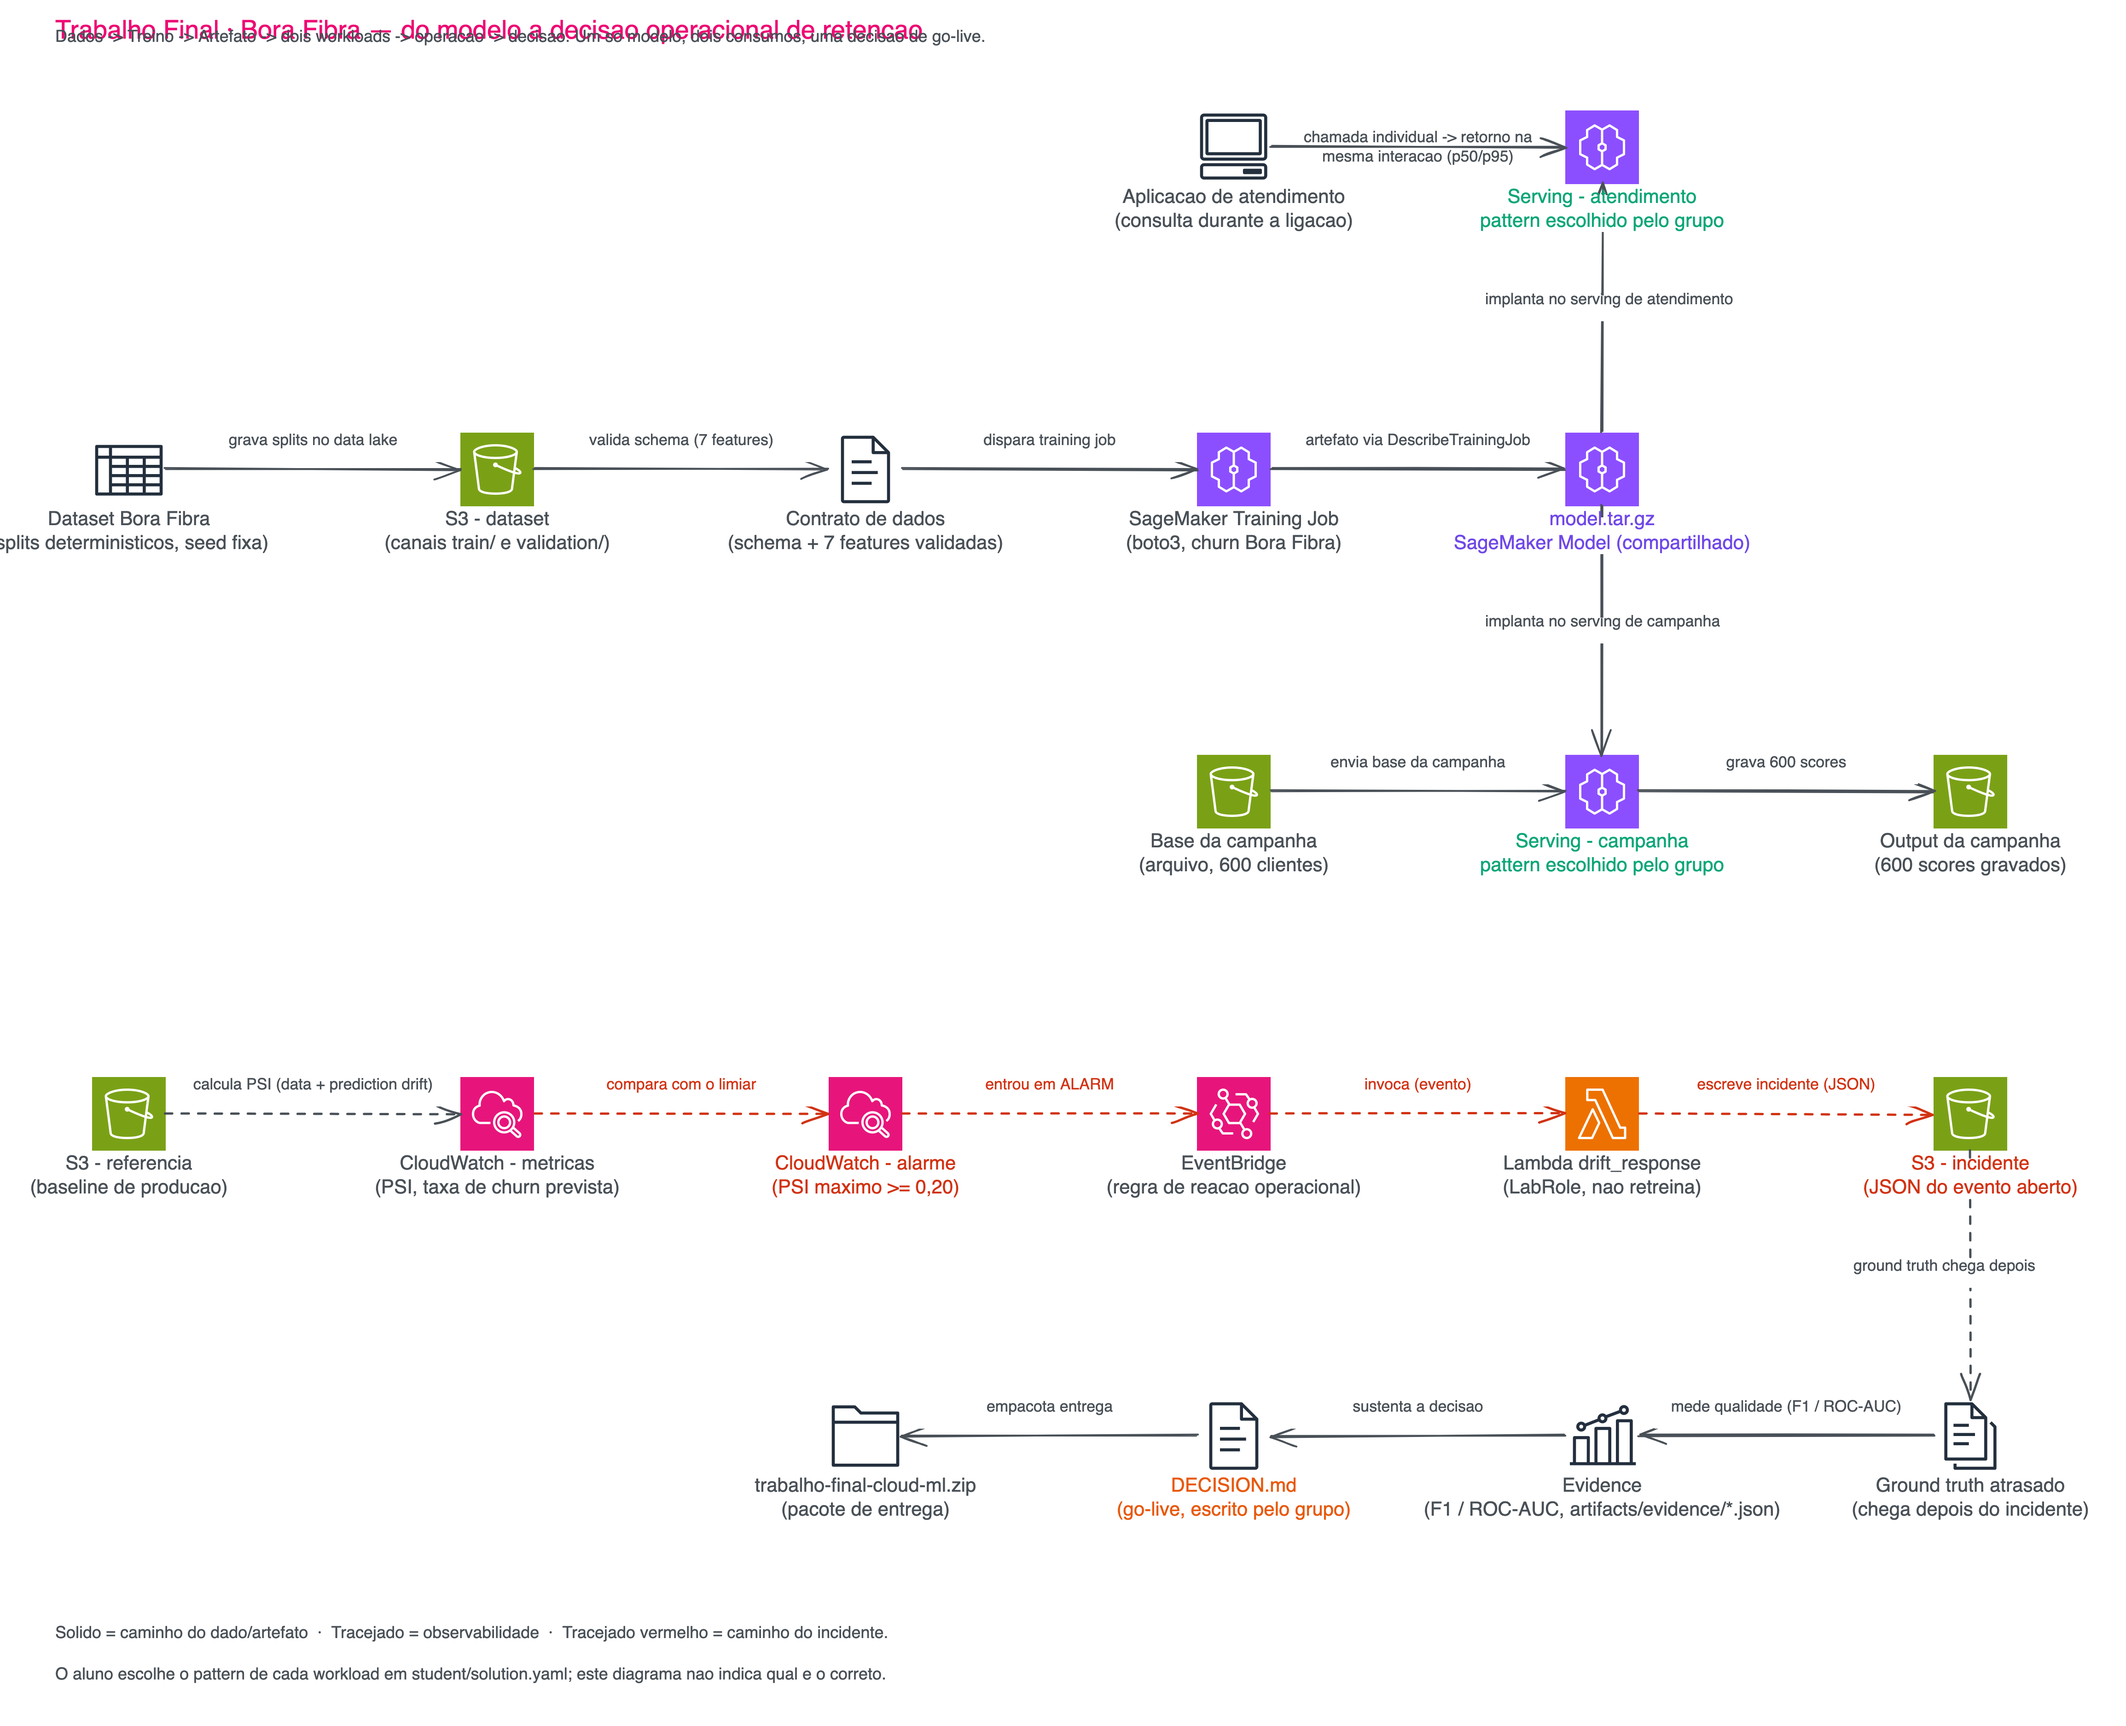
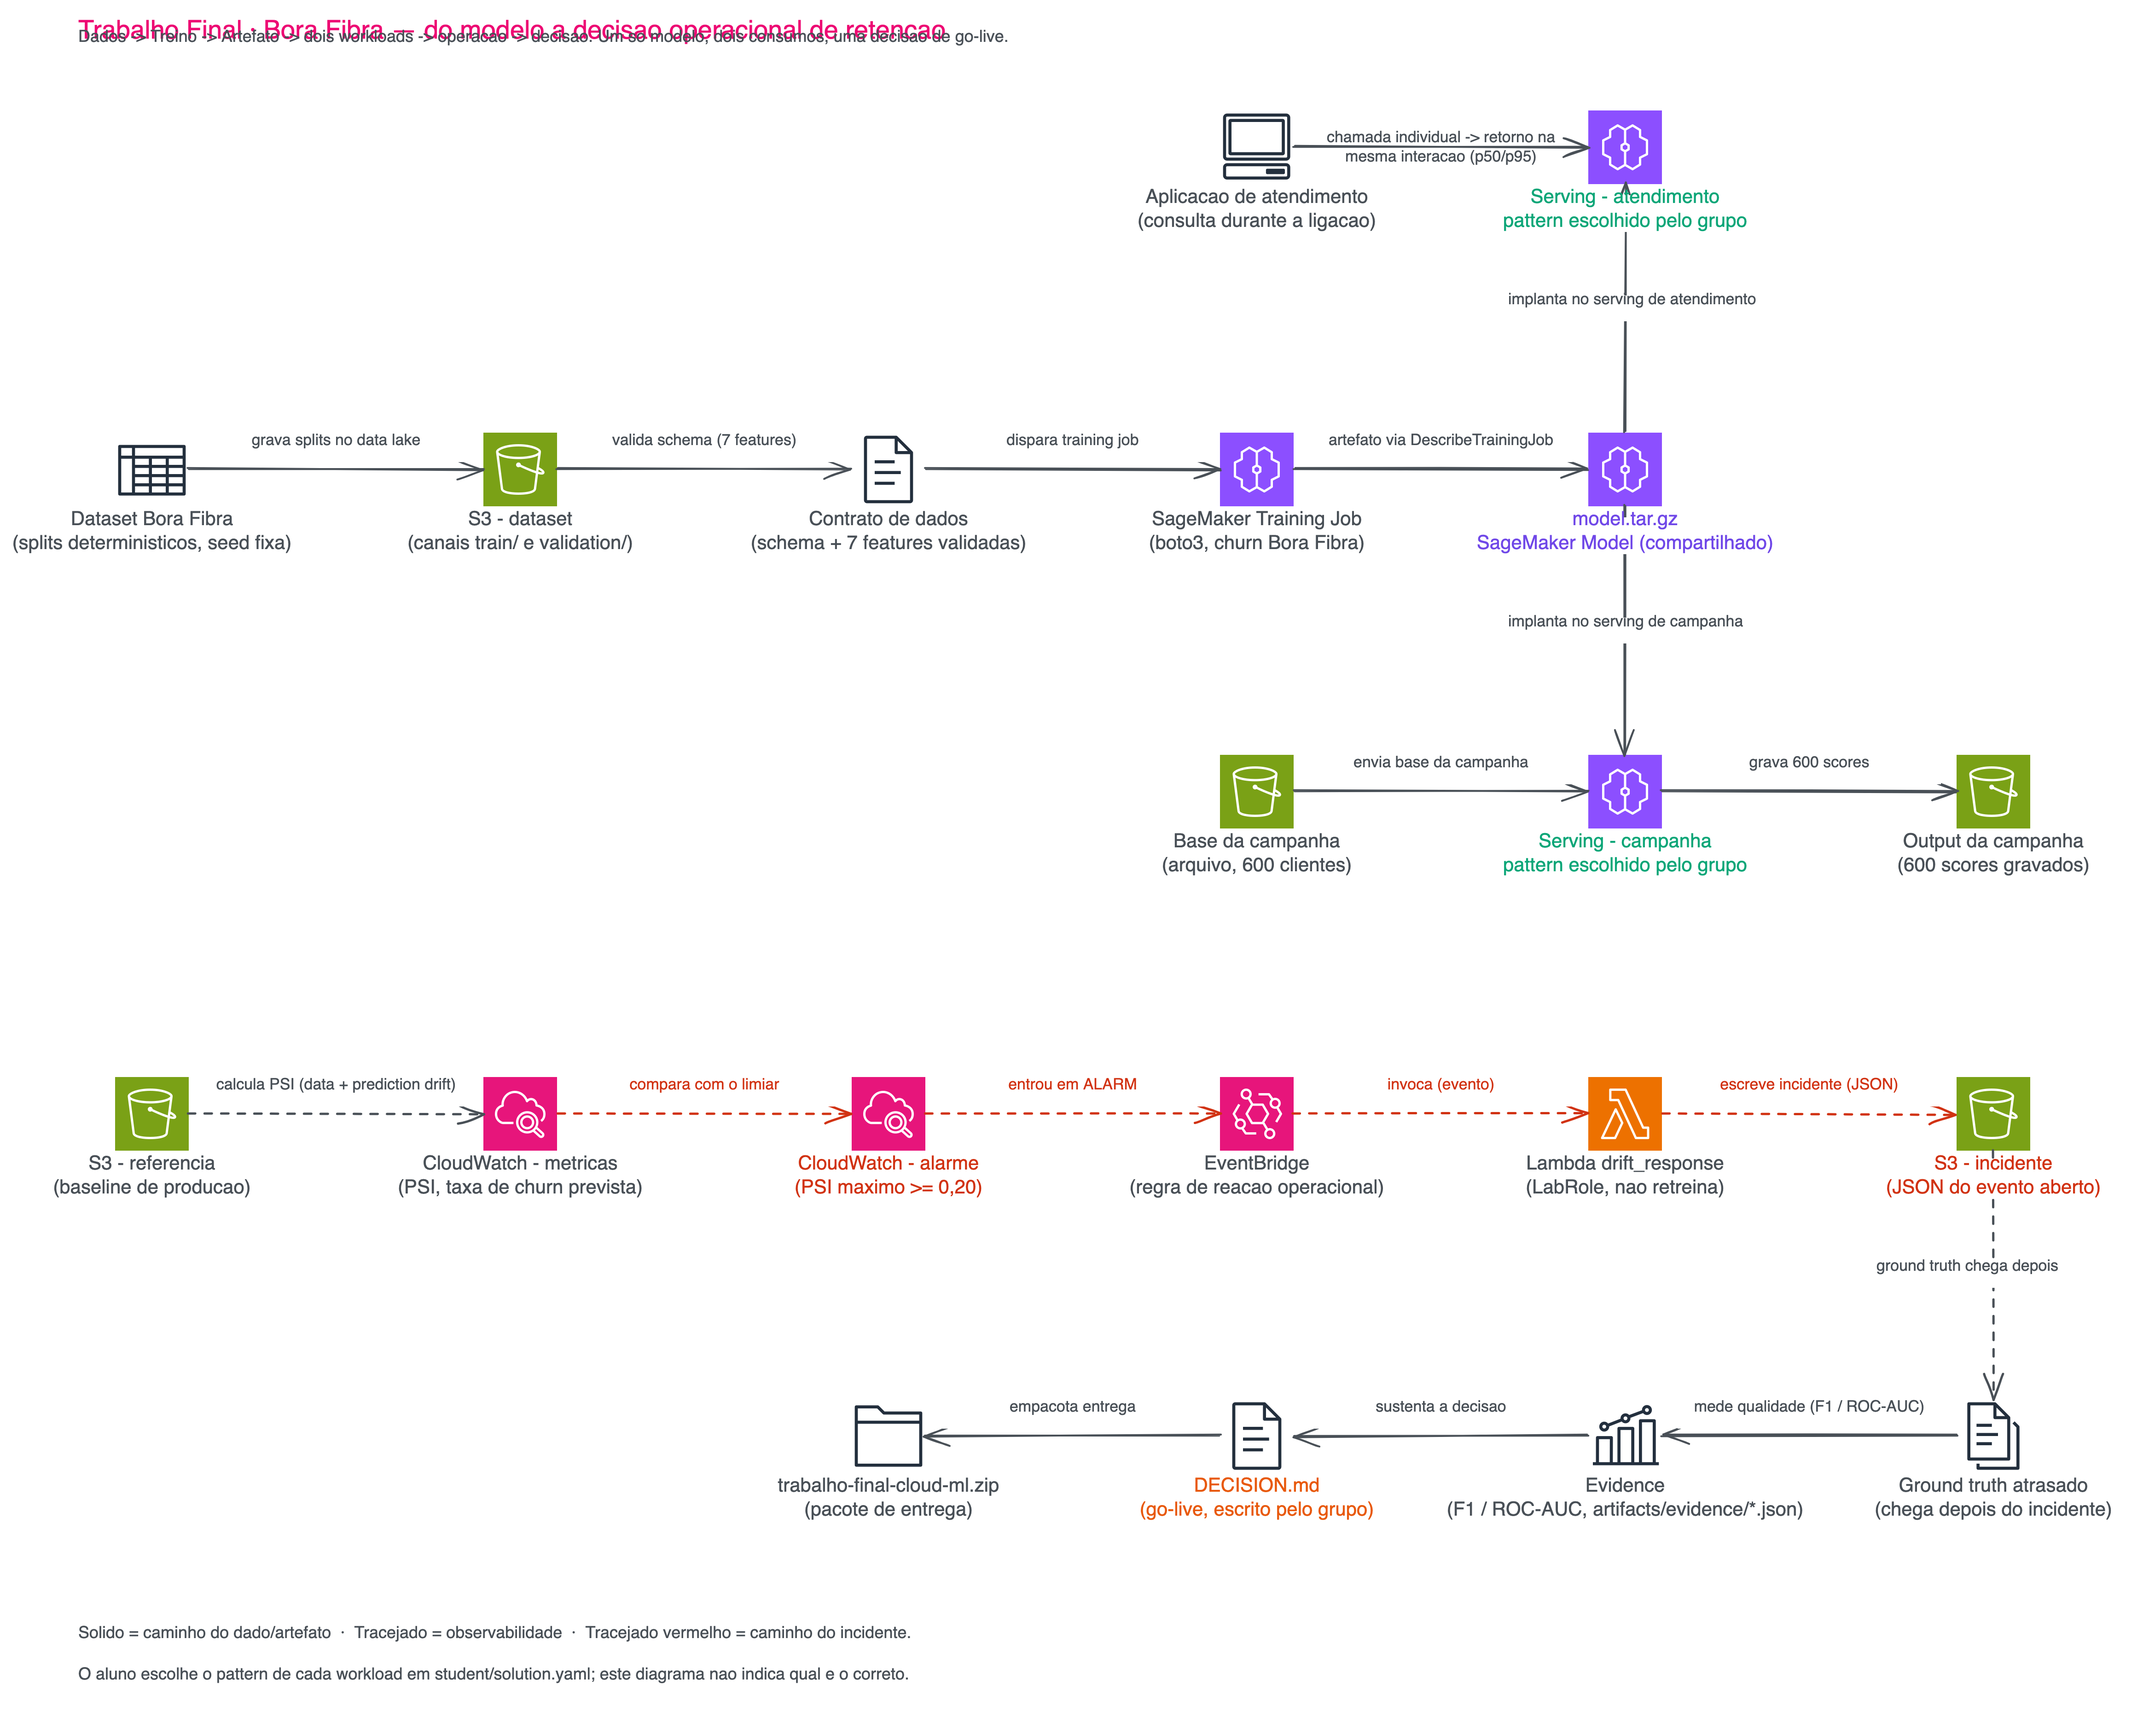
fix(trabalho-final): eliminar corte do rotulo do no mais a esquerda no diagrama
O rotulo "Dataset Bora Fibra" tinha escudo declarado de 252 unidades para tinta
real de 290 com a fonte de 21. O bounding box do render vem do valor declarado,
entao a tinta excedente era cortada na borda esquerda do canvas, nas duas
variantes do PNG. Escudo para 300 e caixa do rotulo para 310, o que contem a
tinta e mantem 21 unidades de folga ate o escudo do no vizinho.

Verificado apos regenerar: zero pixels nao-brancos nas colunas de borda,
zero colisoes texto x seta, zero sobreposicoes texto x texto, zero setas orfas.
Canvas 2314x1855, proporcao 1,25, densidade 214.624 px2/no, fonte aparente
6,6 px a 900 px de largura de exibicao.

diff --git a/05-Trabalho-Final/diagramas/gerar.py b/05-Trabalho-Final/diagramas/gerar.py
@@ -274,7 +274,7 @@ def montar(com_setas: bool):
 
     # ---- esquerda: dados e treino (linha da espinha, ySpine) ----
     dataset = d.no("data-table", "Dataset Bora Fibra\n(splits deterministicos, seed fixa)",
-                    xA, ySpine, lbl_w=260, escudo_w=252)
+                    xA, ySpine, lbl_w=310, escudo_w=300)
     s3dados = d.no("s3", "S3 - dataset\n(canais train/ e validation/)",
                     xB, ySpine, lbl_w=250, escudo_w=238)
     contrato = d.no("document", "Contrato de dados\n(schema + 7 features validadas)",
